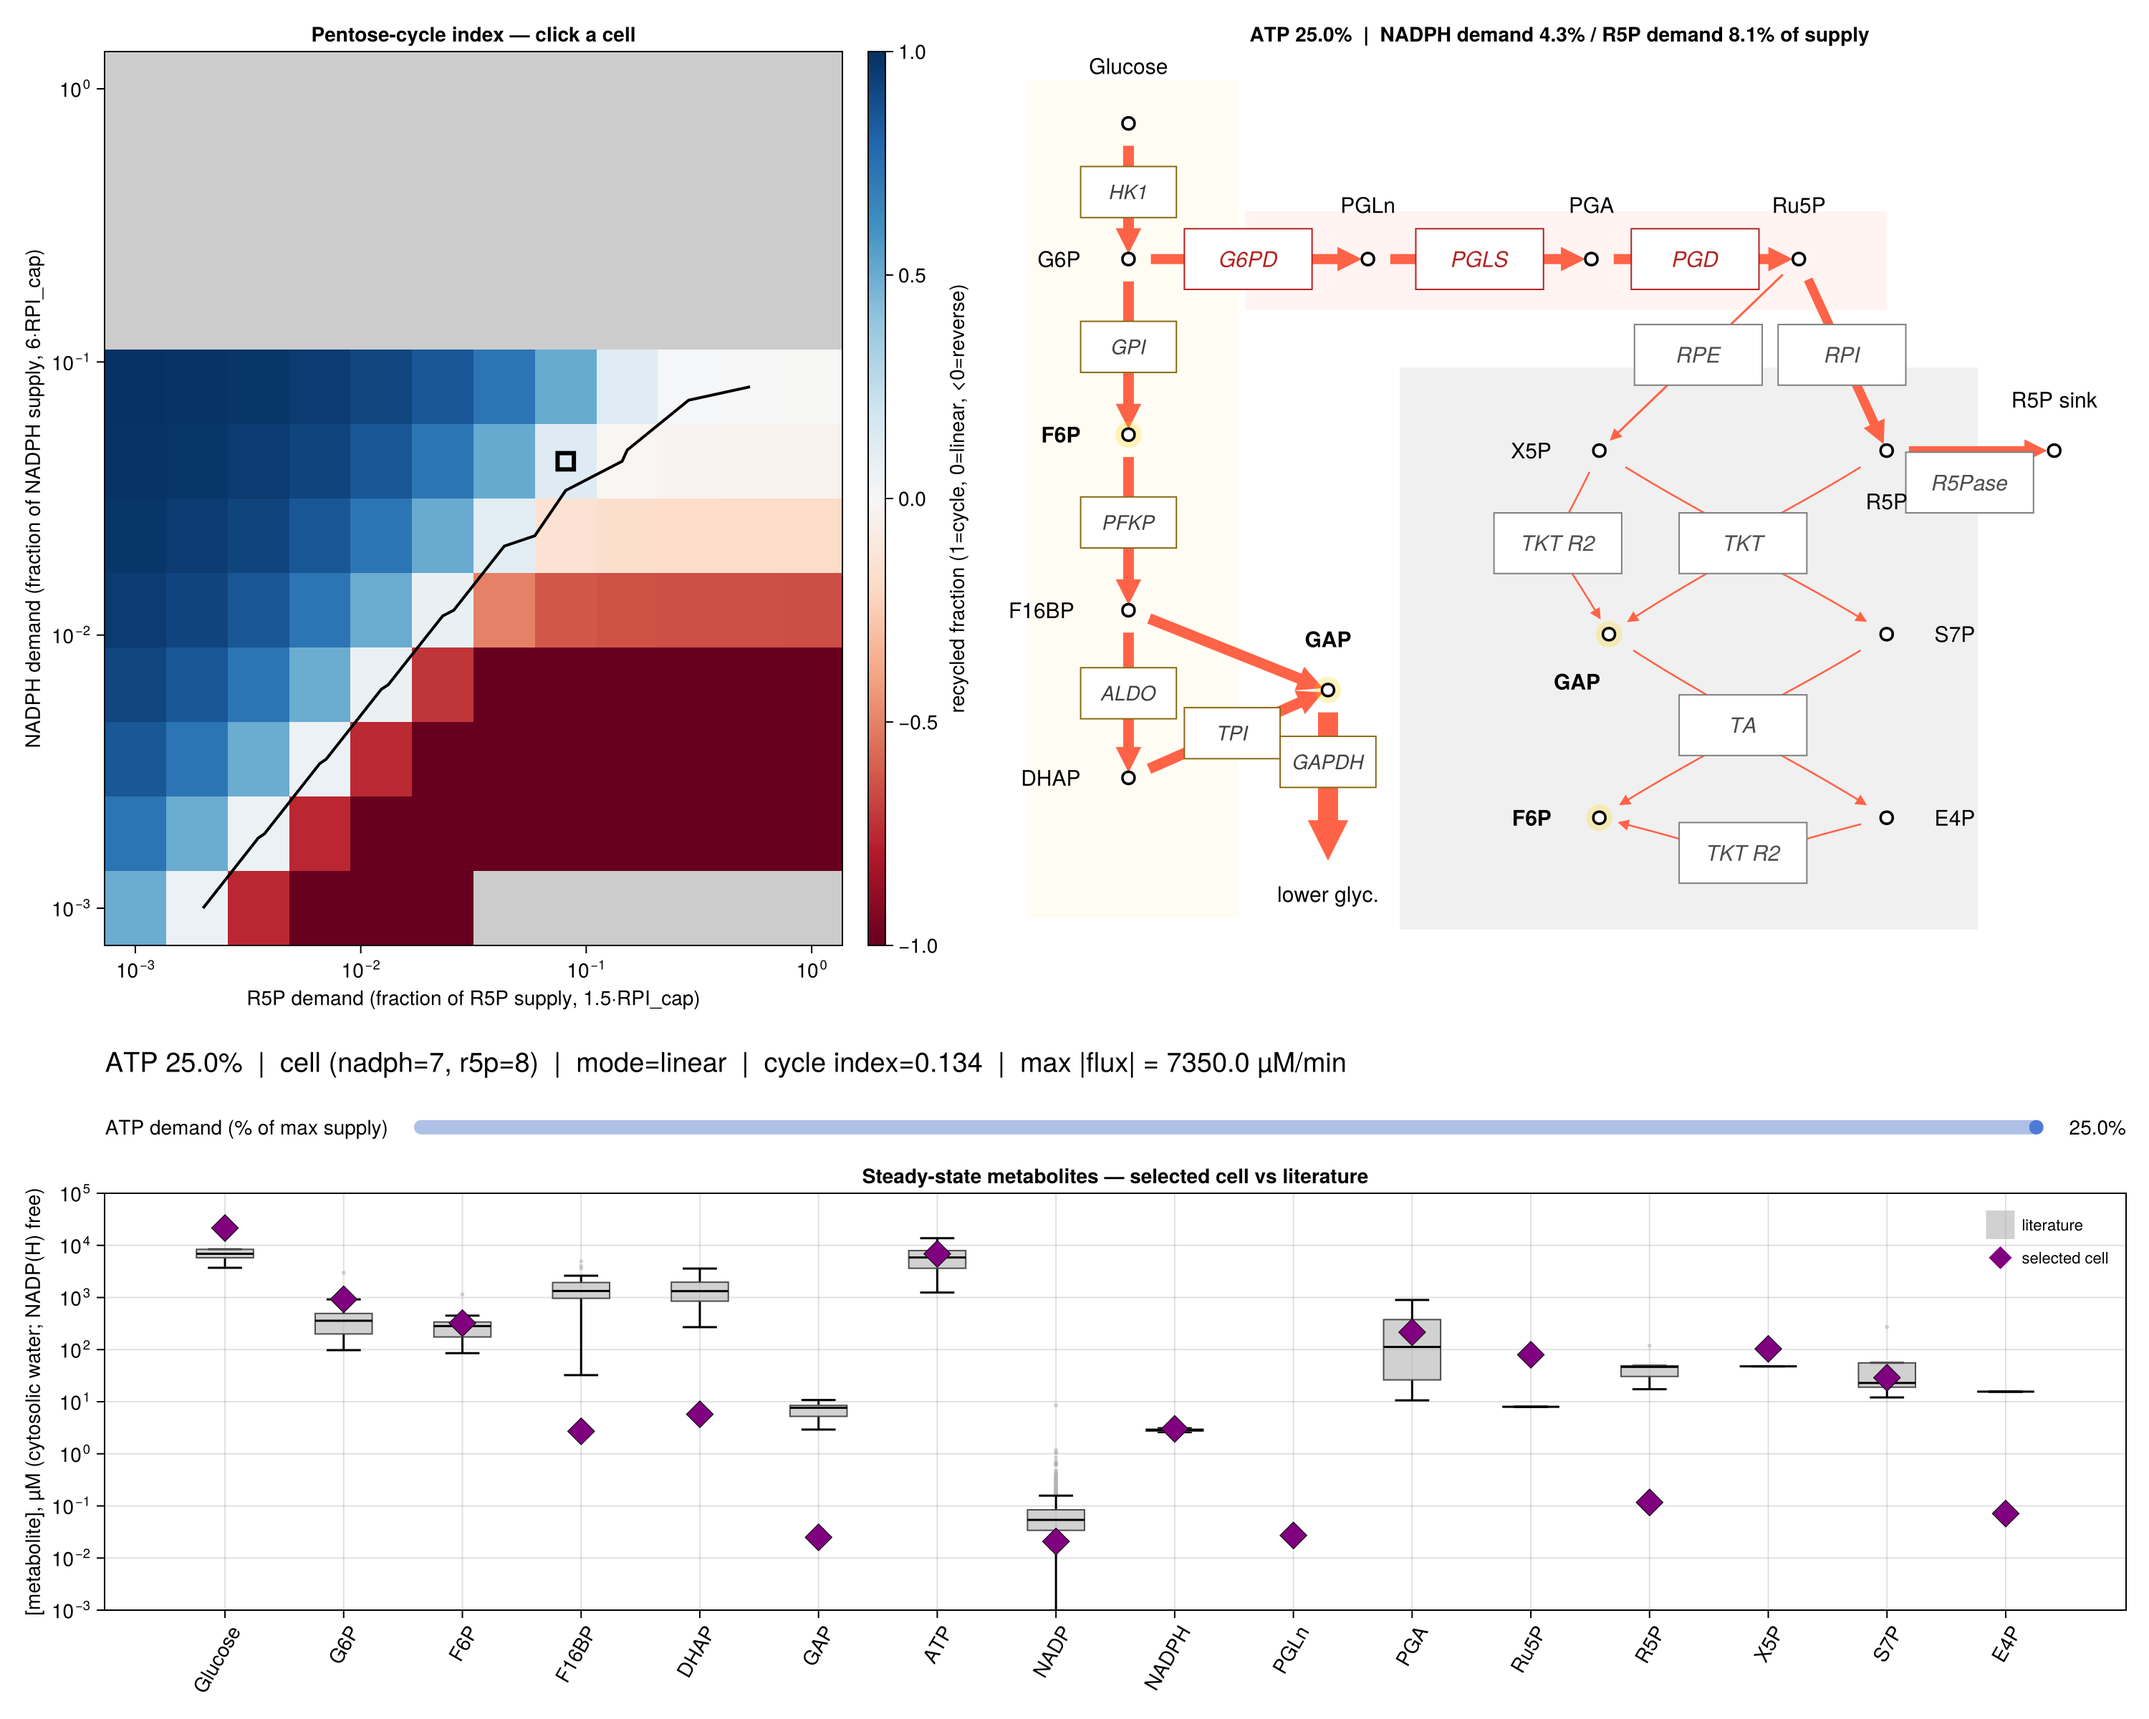
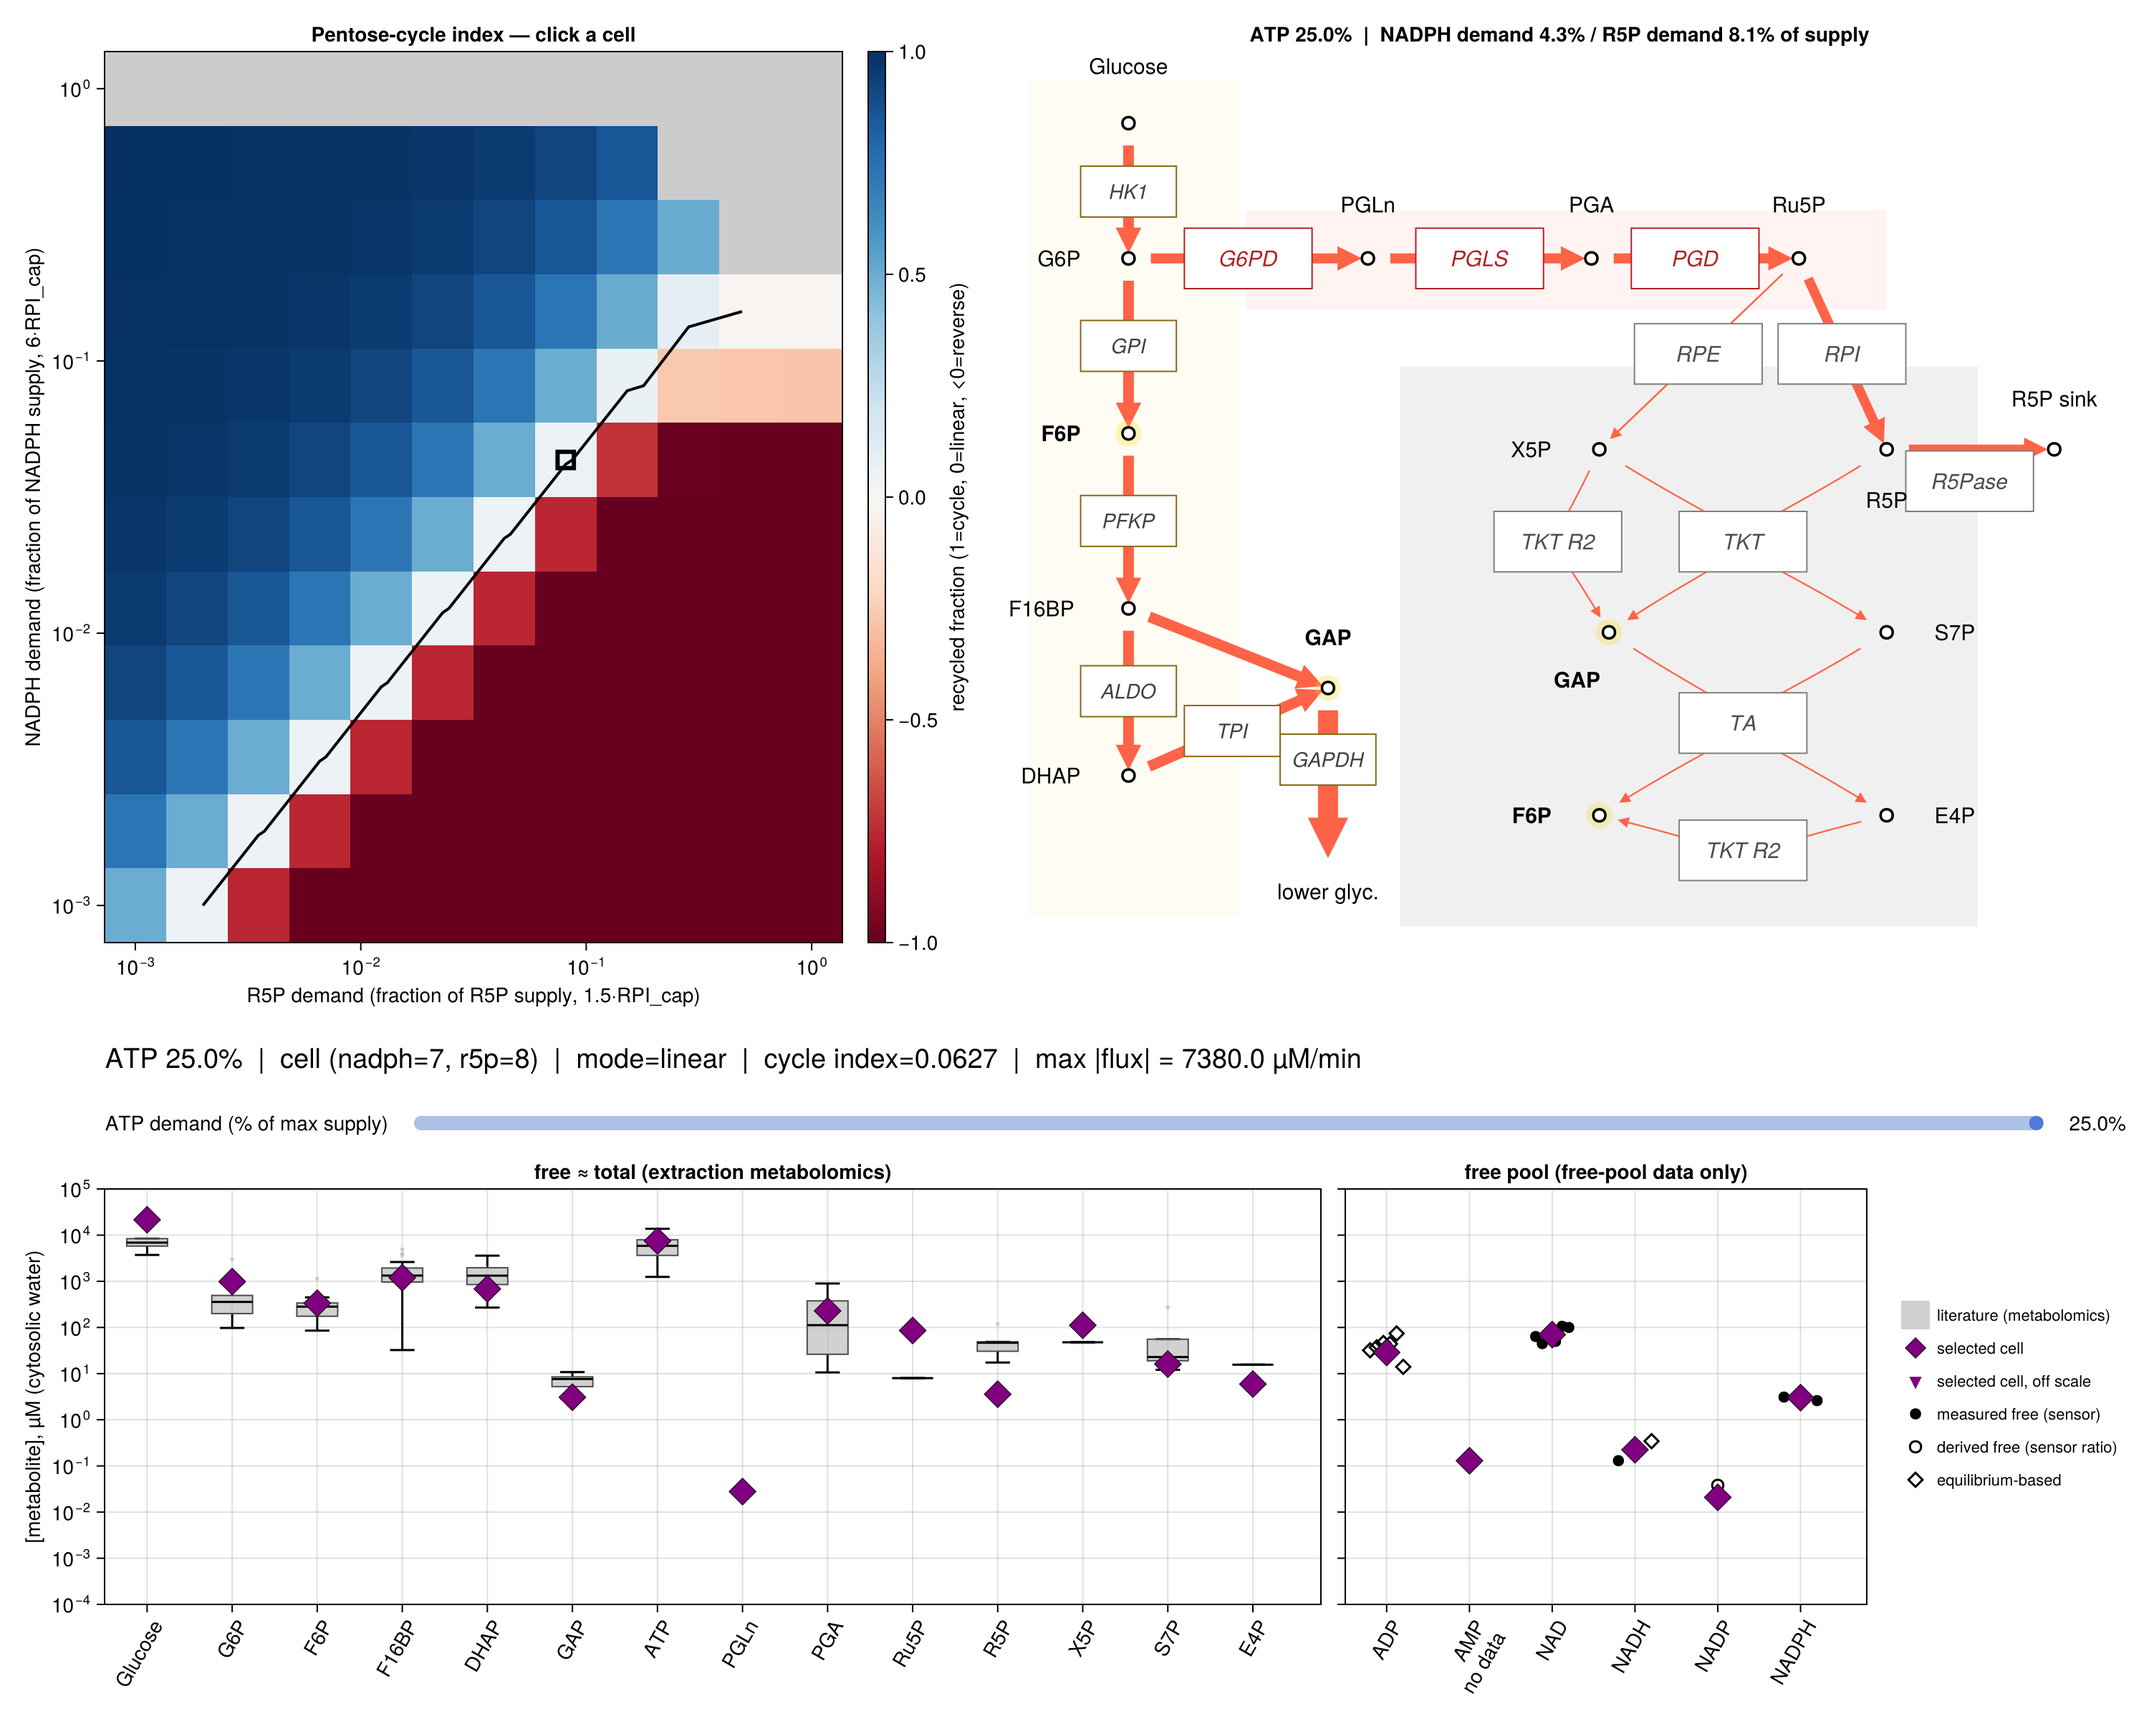
docs(explorer): describe the split metabolite panel and the 5 uM F26BP operating point; bump to 0.3.0
Plain English: the tutorial, science and recompute pages now explain the two-part metabolite
panel, the marker key, why NADP has one point and AMP none, and that the phase map runs with
F26BP at 5 uM. The README screenshot shows the new panel. Version 0.3.0 because the grid and
literature file formats changed and old grids no longer open in the explorer.

diff --git a/docs/src/tutorial.md b/docs/src/tutorial.md
@@ -40,7 +40,8 @@ Below the panels is an **ATP-demand slider** that varies ATP demand across log-s
 (1 %–25 % of maximal ATP supply, i.e. 0.02–0.5 × HK1 capacity). Moving it re-slices the cached
 3-D grid: the heatmap, its sign-flip contour, and the flux network all update instantly — again,
 with no ODE re-solve. The explorer opens at the 25 % level (ATP demand 0.5 × HK1 capacity) on the
-cell nearest **physiological demand**: PentosePhosphatePathway.jl's default NADPH and R5P sinks.
+cell nearest **physiological demand**: PentosePhosphatePathway.jl's default NADPH and R5P sinks,
+with the glycolytic activator F26BP at 5 µM (PentosePhosphatePathway.jl's own default is 0).
 
 ### The flux network
 
@@ -52,17 +53,28 @@ enzyme names.
 
 ### The metabolite panel
 
-Below the network sits a full-width **metabolite box-plot panel** covering 16 metabolites
-(`Glucose, G6P, F6P, F16BP, DHAP, GAP, ATP, NADP, NADPH, PGLn, PGA, Ru5P, R5P, X5P, S7P, E4P`).
-For the currently selected cell, each metabolite's steady-state pool (µM, log y-axis) is drawn as
-a **purple diamond** over a **static literature box-and-whisker** from cultured mammalian cells.
-Both are on the model's pool basis: µM of cytosolic water, with NADP⁺ and NADPH as **free**
-(unbound) concentrations and GAP/DHAP as the free aldehyde/ketone. The literature values were
-converted to that basis before shipping (see [Recompute](@ref)); the boxes include drug-treated
-and glucose-pulse measurements as well as basal ones. Free NADP⁺ has no direct measurement, so
-its box is **derived** — free NADPH divided by the measured free NADPH/NADP⁺ ratio — and PGLn
-has no measurements, so it has no box. The diamonds redraw on every click and slider move; the
-boxes are static. Diamonds sitting off their boxes flag known model discrepancies.
+Below the network sits a full-width **metabolite panel** of 20 metabolites, split in two. The
+model tracks each metabolite as its **free** (unbound) concentration, while most measurements
+extract the cell and count the **total** pool.
+
+- **Left, free ≈ total** (`Glucose, G6P, F6P, F16BP, DHAP, GAP, ATP, PGLn, PGA, Ru5P, R5P, X5P,
+  S7P, E4P`): metabolites whose free and total pools are about the same, so each one is
+  compared with a static **box-and-whisker of extraction metabolomics** from cultured mammalian
+  cells. The boxes include drug-treated and glucose-pulse measurements as well as basal ones.
+  PGLn has no measurements, so it has no box.
+- **Right, free pool** (`ADP, AMP, NAD, NADH, NADP, NADPH`): cofactors that are mostly
+  protein-bound, so they are compared with **free-pool measurements only**, one point per
+  value. Filled points are measured; open points are inferred, by us or by the original
+  authors. Circles are sensor-based; diamonds are equilibrium-based. Free NADP⁺ has no direct
+  measurement: its one point is HeLa free NADPH divided by the HeLa free NADPH:NADP⁺ ratio. The
+  other measured ratios come from cell lines with no free-NADPH measurement, so they cannot be
+  paired. AMP has no free-pool measurement, so its column reads "no data".
+
+For the selected cell, each metabolite's steady-state pool (µM of cytosolic water, log y-axis)
+is a **purple diamond**. A pool outside the axis range is a purple triangle at the bottom or top
+edge, labelled with its value. In ATP-collapsed cells many pools do this at once. The model
+marks redraw on every click and slider move; the literature marks are static. GAP and DHAP are
+on the free aldehyde/ketone basis on both sides.
 
 ## The static phase map
 

diff --git a/docs/src/recompute.md b/docs/src/recompute.md
@@ -35,11 +35,13 @@ dependencies of the visualization package.
    regenerate_grid()   # writes data/*.csv and the [grids] table of data/provenance.toml
    ```
 
+`regenerate_grid(; f26bp_uM = 5.0)` sets the F26BP value (µM of cytosolic water); the default is the phase map's physiological 5 µM, not PentosePhosphatePathway.jl's default of 0.
+
 Every cell is solved from PentosePhosphatePathway.jl's initial state, so its steady state does
 not depend on the order the sweep visits cells. Fluxes are cached in µM/min and pools in µM.
 
 `[grids]` records the PentosePhosphatePathway.jl commit (with branch and a dirty flag when it is a
-git checkout; otherwise its version), the CellMetabolism version, the grid axes, and how many
+git checkout; otherwise its version), the CellMetabolism version, the grid axes, the F26BP value, and how many
 cells did not reach steady state (those render gray).
 
 If you call `regenerate_grid` **without** the extension loaded, it raises an error telling you
@@ -55,12 +57,11 @@ to `using PentosePhosphatePathway` first.
 `literature_pools.csv` is exported from the
 [PPP_Experiments](https://github.com/JamesMbata/PPP_Experiments) data repository, where the
 measurements and their basis conversion live (each row's reported basis → µM of cytosolic water
-by species distribution class; free-pool NADP(H); GAP/DHAP free-form corrections). From a
+by species distribution class; free-pool cofactors (ADP, AMP, NAD⁺, NADH, NADP⁺, NADPH: free-pool measurements and same-cell-line matched pairs only); GAP/DHAP free-form corrections). From a
 PPP_Experiments checkout next to this package:
 
 ```sh
 julia --project scripts/phasemap_export/export_literature_pools.jl
 ```
 
-This rewrites `data/literature_pools.csv` and the `[literature]` table (PPP_Experiments commit,
-source files, and the seed and draw count of the derived free-NADP⁺ values).
+This rewrites `data/literature_pools.csv` and the `[literature]` table (PPP_Experiments commit and source files). Each row's `method` column (`metabolomics`, `sensor` or `equilibrium`) sets its marker in the panel. The export refuses to run if this package's panel grouping (`_FREE_EQ_TOTAL_PANEL`, `_FREE_POOL_PANEL`) differs from PPP_Experiments' `metab_data.jl`.
